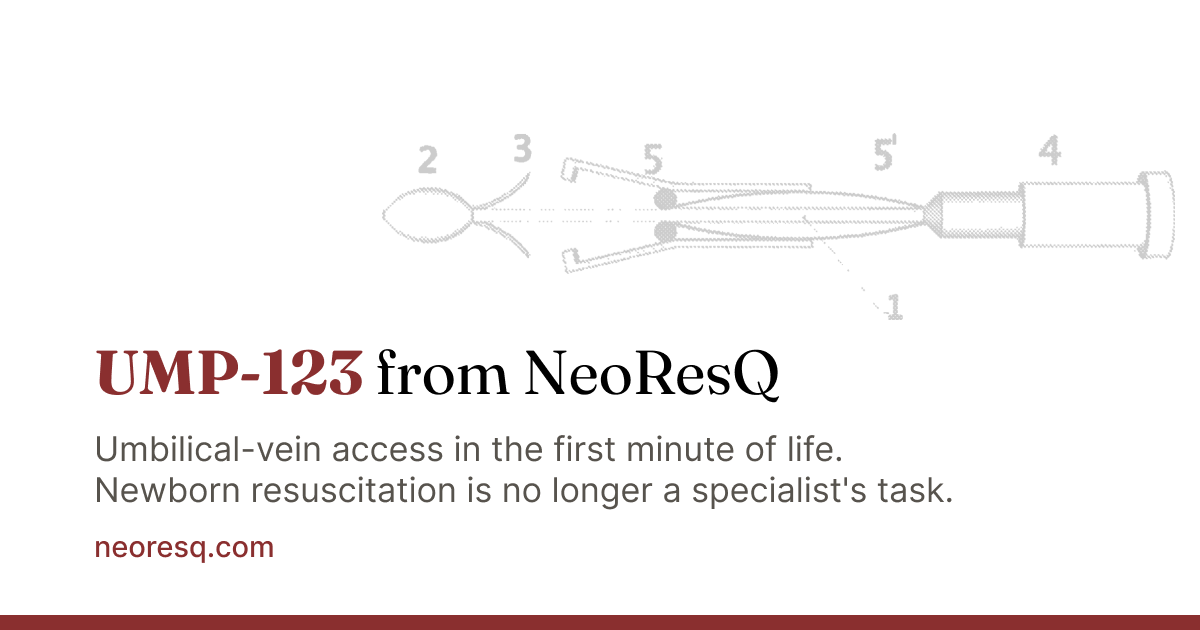
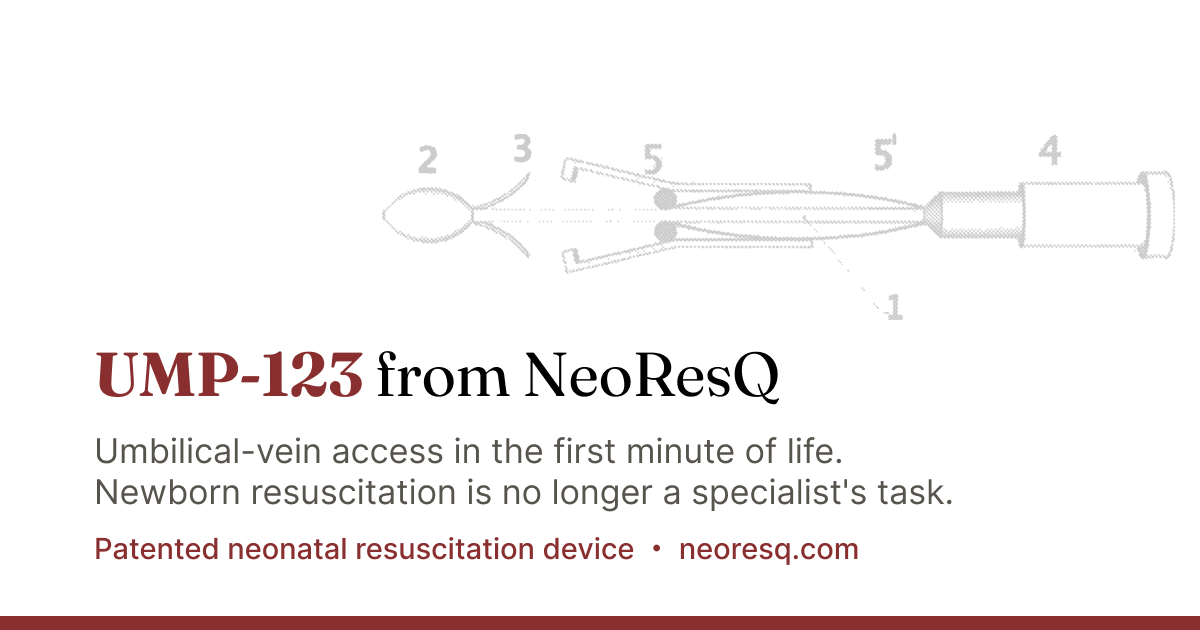
Add ambient blueprint grid, remove section dividers

diff --git a/styles.css b/styles.css
@@ -13,3 +13,20 @@ html {
 .font-display {
   font-optical-sizing: auto;
 }
+
+/* Ambient blueprint grid: fine + major engineering lines, fading down the fold */
+body::before {
+  content: "";
+  position: fixed;
+  inset: 0;
+  z-index: -1;
+  pointer-events: none;
+  background-image:
+    linear-gradient(to right, rgba(120, 113, 108, 0.045) 1px, transparent 1px),
+    linear-gradient(to bottom, rgba(120, 113, 108, 0.045) 1px, transparent 1px),
+    linear-gradient(to right, rgba(120, 113, 108, 0.08) 1px, transparent 1px),
+    linear-gradient(to bottom, rgba(120, 113, 108, 0.08) 1px, transparent 1px);
+  background-size: 32px 32px, 32px 32px, 160px 160px, 160px 160px;
+  -webkit-mask-image: linear-gradient(to bottom, #000 0%, #000 30%, transparent 88%);
+  mask-image: linear-gradient(to bottom, #000 0%, #000 30%, transparent 88%);
+}